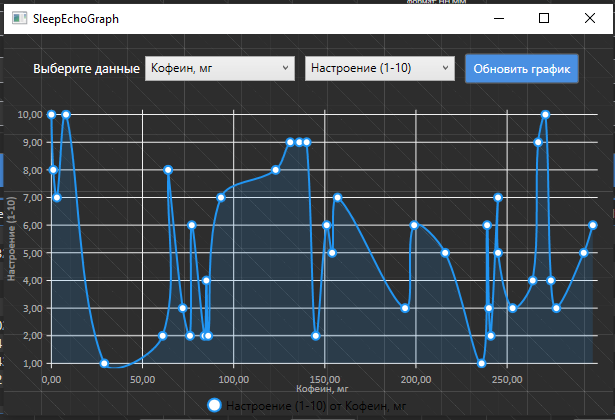
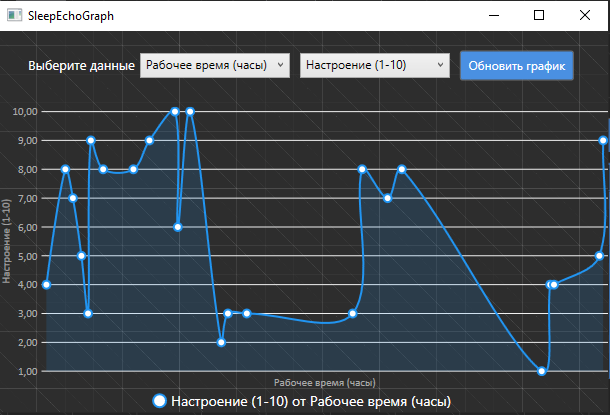
Рабочий вариант графиков

diff --git a/sleepApp/sleepApp/Window/GraphWindow.xaml b/sleepApp/sleepApp/Window/GraphWindow.xaml
@@ -4,6 +4,7 @@
         xmlns:lvc="clr-namespace:LiveCharts.Wpf;assembly=LiveCharts.Wpf"
         Title="SleepEchoGraph" Height="420" Width="625" ResizeMode="CanResize"
         DataContext="{Binding RelativeSource={RelativeSource Self}}">
+    <!-- все привязки данных будут искать свойства в коде окна  -->
     <Window.Resources>
         <Style x:Key="ButtonStyle" TargetType="Button">
             <Setter Property="Background" Value="#4A90E2"/>
@@ -67,21 +68,25 @@
 
         <StackPanel Orientation="Horizontal" Grid.Row="0" HorizontalAlignment="Center" Margin="0,10,0,10" Width="Auto" Height="40">
             <TextBlock Text="Выберите данные" VerticalAlignment="Center" Style="{StaticResource TextStyle}" />
-                <ComboBox x:Name="XAxisCombobox" Width="150" Margin="5" HorizontalAlignment="Center" VerticalAlignment="Center" SelectionChanged="UpdateGraph_Click" Height="25" />
-            <ComboBox x:Name="YAxisCombobox" Width="150" Margin="5" HorizontalAlignment="Center" VerticalAlignment="Center" SelectionChanged="UpdateGraph_Click" Height="25" />
+            <ComboBox x:Name="XAxisCombobox" Width="180" Margin="5" VerticalAlignment="Center" SelectionChanged="UpdateGraph_Click" Height="24" />
+            <ComboBox x:Name="YAxisCombobox" Width="180" Margin="5" VerticalAlignment="Center" SelectionChanged="UpdateGraph_Click" Height="24" />
             <Button Content="Обновить график" Click="UpdateGraph_Click" Margin="5" Style="{StaticResource ButtonStyle}" Width="114"/>
         </StackPanel>
         <!-- График -->
         <lvc:CartesianChart x:Name="DataChart"  Grid.Row="1" LegendLocation="Bottom" >
-          
+            <lvc:CartesianChart.ChartLegend>
+                <lvc:DefaultLegend Foreground="#FFFFFFFF" FontSize="14" />
+                <!-- Настройка цвета и размера текста -->
+            </lvc:CartesianChart.ChartLegend>
+
             <lvc:CartesianChart.AxisX>
-                <lvc:Axis Title="Параметр X" />
+                <lvc:Axis Title="Параметр X" MinValue="0" MaxValue="10" />
             </lvc:CartesianChart.AxisX>
             <!-- 
             AxisX - настройки для оси X (горизонтальной оси).
         -->
             <lvc:CartesianChart.AxisY>
-                <lvc:Axis Title="Параметр Y" />
+                <lvc:Axis Title="Параметр Y" MinValue="0" MaxValue="10"/>
             </lvc:CartesianChart.AxisY>
 
         </lvc:CartesianChart>

diff --git a/sleepApp/sleepApp/Window/DashboardWindow.xaml b/sleepApp/sleepApp/Window/DashboardWindow.xaml
@@ -375,7 +375,7 @@
                     <TextBlock Text="формат: HH.MM " FontSize="8"  Margin="46,183,0,643" HorizontalAlignment="Left" Width="Auto" Height="20.2"/>
                     <TextBlock Text="формат: HH.MM " FontSize="8"  Margin="646,56,0,770" HorizontalAlignment="Left" Width="Auto" Height="20.2"/>
                     <Button Content="Выгрузить в EXCEL" Click="ExportDataButton_Click" Margin="812,480,22,340" Style="{StaticResource ButtonStyle}" Height="26"/>
-                    <Button Content="Построить графики" Click="GraphButton_Click" Margin="25,480,809,340" Style="{StaticResource ButtonStyle}" Height="26"/>
+                    <Button Content="Построить график" Click="GraphButton_Click" Margin="25,480,809,340" Style="{StaticResource ButtonStyle}" Height="26"/>
 
 
 

diff --git a/sleepApp/sleepApp/Window/GraphWindow.xaml.cs b/sleepApp/sleepApp/Window/GraphWindow.xaml.cs
@@ -26,9 +26,14 @@ namespace sleepApp
 
             XAxisCombobox.ItemsSource = new List<string>
             {
+                "Время отхода ко сну HH.MM",
+                "Время пробуждения HH.MM",
+                "Общее время сна HH.MM",
+                "Качество сна (1-10)",
+                "Время для спорта (минуты)",
                 "Кофеин, мг",
-                "Рабочее время (часы)",
-                "Качество сна (1-10)"
+                "Время у экрана (минуты)",
+                "Рабочее время HH.MM"
             };
             YAxisCombobox.ItemsSource = new List<string>
             {
@@ -37,22 +42,14 @@ namespace sleepApp
                 "Продуктивность (1-10)"
             };
 
-          }
+        }
 
         private async void UpdateGraph_Click(object sender, RoutedEventArgs e)
         {
 
             try
             {
-
-
-                // Проверяем, находимся ли мы в основном потоке
-                if (!Dispatcher.CheckAccess())
-                {
-                    Dispatcher.Invoke(UpdateGraph_Click, sender, e);
-                    return;
-                }
-
+             
                 if (XAxisCombobox.SelectedItem == null || YAxisCombobox.SelectedItem == null)
                 {
                     return;
@@ -82,23 +79,23 @@ namespace sleepApp
                 List<double> xValues = null;
                 List<double> yValues = null;
 
-              
-                    xValues = GetXValues(xAxisParam);
-                    yValues = GetYValues(yAxisParam);
+
+                xValues = GetXValues(xAxisParam);
+                yValues = GetYValues(yAxisParam);
 
 
-                    if (xValues == null || yValues == null || xValues.Count == 0 || yValues.Count == 0)
-                    {
-                        MessageBox.Show("Нет данных для отображения.", "Ошибка", MessageBoxButton.OK, MessageBoxImage.Warning);
-                        return;
-                    }
+                if (xValues == null || yValues == null || xValues.Count == 0 || yValues.Count == 0)
+                {
+                    MessageBox.Show("Нет данных для отображения.", "Ошибка", MessageBoxButton.OK, MessageBoxImage.Warning);
+                    return;
+                }
 
-                    // Упорядочиваем данные по X
-                    var combined = xValues.Zip(yValues, (x, y) => new { X = x, Y = y }).OrderBy(point => point.X).ToList();
-                    xValues = combined.Select(point => point.X).ToList();
-                    yValues = combined.Select(point => point.Y).ToList();
-                
-                
+                // Упорядочиваем данные по X
+                var combined = xValues.Zip(yValues, (x, y) => new { X = x, Y = y }).OrderBy(point => point.X).ToList();
+                xValues = combined.Select(point => point.X).ToList();
+                yValues = combined.Select(point => point.Y).ToList();
+
+
                 // Создаем новую серию
                 var lineSeries = new LineSeries
                 {
@@ -125,10 +122,10 @@ namespace sleepApp
                 DataChart.AxisX.Add(new Axis
                 {
                     Title = xAxisParam,
-                    LabelFormatter = value => value.ToString("N2"), // Форматирование значений
+                    LabelFormatter = value => value.ToString("N2"), // Форматирование значений Добавляет разделитель тысяч (например, 1,000 вместо 1000). Округляет число до 2 знаков после запятой.
                     MinValue = xValues.Min(), // Минимальное значение на оси X
                     MaxValue = xValues.Max(), // Максимальное значение на оси X
-                    Separator = new Separator { Step = 50 } // Шаг между значениями (настройте по необходимости)
+                    Separator = new Separator { Step = GetStepForAxis(xAxisParam) }
                 });
 
                 DataChart.AxisY.Clear();
@@ -136,9 +133,9 @@ namespace sleepApp
                 {
                     Title = yAxisParam,
                     LabelFormatter = value => value.ToString("N2"), // Форматирование значений
-                    MinValue = yValues.Min(), // Минимальное значение на оси Y
-                    MaxValue = yValues.Max(), // Максимальное значение на оси Y
-                    Separator = new Separator { Step = 1 } // Шаг между значениями (настройте по необходимости)
+                    MinValue = yValues.Min(), 
+                    MaxValue = yValues.Max(), 
+                    Separator = new Separator { Step = 1 } // Шаг между значениями 
                 });
             }
             catch (Exception ex)
@@ -146,16 +143,38 @@ namespace sleepApp
                 MessageBox.Show($"Ошибка при обновлении графика: {ex.Message}", "Ошибка", MessageBoxButton.OK, MessageBoxImage.Error);
             }
         }
+
+        private double GetStepForAxis(string xAxisParam)
+        {
+            switch (xAxisParam)
+            {
+                case "Время отхода ко сну HH.MM": return 1;
+                case "Время пробуждения HH.MM": return 1;
+                case "Общее время сна HH.MM": return 1;
+                case "Рабочее время HH.MM": return 1;
+                case "Качество сна (1-10)": return 1;
+                case "Время для спорта (минуты)": return 10;
+                case "Кофеин, мг": return 20;
+                case "Время у экрана (минуты)": return 5;
+                default: return 5;
+            }
+        }
         // Метод для получения значений по оси X
         private List<double> GetXValues(string xAxisParam)
         {
             switch (xAxisParam)
             {
-                case "Кофеин, мг": return _sleepDataList.Select(x => (double)x.CaffeineIntakeMg).ToList();
-                case "Рабочее время (часы)": return _sleepDataList.Select(x => x.WorkHours).ToList();
+                case "Время отхода ко сну HH.MM": return _sleepDataList.Select(x => x.SleepStartTime).ToList();
+                case "Время пробуждения HH.MM": return _sleepDataList.Select(x => x.SleepEndTime).ToList();
+                case "Общее время сна HH.MM": return _sleepDataList.Select(x => x.TotalSleepHours).ToList();
                 case "Качество сна (1-10)": return _sleepDataList.Select(x => (double)x.SleepQuality).ToList();
+                case "Время для спорта (минуты)": return _sleepDataList.Select(x => (double)x.ExerciseMinutes).ToList();
+                case "Кофеин, мг": return _sleepDataList.Select(x => (double)x.CaffeineIntakeMg).ToList();
                 case "Время у экрана (минуты)": return _sleepDataList.Select(x => (double)x.ScreenTime).ToList();
+                case "Рабочее время HH.MM": return _sleepDataList.Select(x => x.WorkHours).ToList();
+
                 default: return new List<double>();
+
             }
         }
         private List<double> GetYValues(string yAxisParam)

diff --git a/sleepApp/sleepApp/Window/DashboardWindow.xaml.cs b/sleepApp/sleepApp/Window/DashboardWindow.xaml.cs
@@ -655,7 +655,7 @@ namespace sleepApp
 
         private void GraphButton_Click(object sender, RoutedEventArgs e)
         {
-            MessageBoxResult result = MessageBox.Show($"Построение графиков для большого количества данных может занять продолжительное время", "Инфо", MessageBoxButton.OKCancel, MessageBoxImage.Information);
+            MessageBoxResult result = MessageBox.Show($"Построение графиков для большого количества данных может занять продолжительное время", "Информация", MessageBoxButton.OKCancel, MessageBoxImage.Information);
             if(result == MessageBoxResult.Cancel)
             {
                 return;
